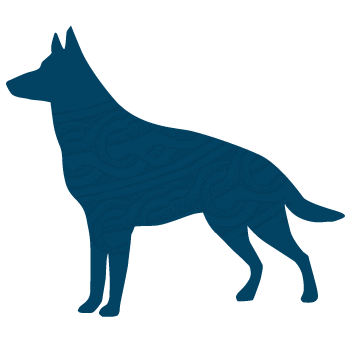
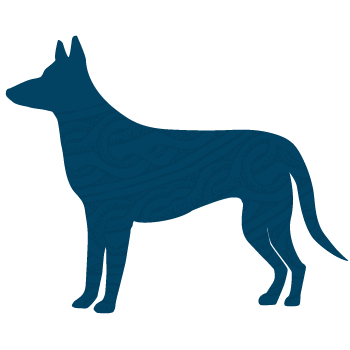
update dog

diff --git a/web/packages/shield/elements/blue_masthead.php b/web/packages/shield/elements/blue_masthead.php
@@ -10,6 +10,9 @@
             </p>
         </div>
         <?php if($mastheadEditableArea === true && ($c instanceof Page)): ?>
+        <div class="column small-8 large-3 small-centered dog">
+                <img src="<?php echo SHIELD_IMAGES_URL; ?>celtic-dog-blue.png"/>
+            </div>
         <div class="column medium-10 medium-centered">
             <?php $a = new Area('Masthead'); $a->display($c); ?>
         </div>
